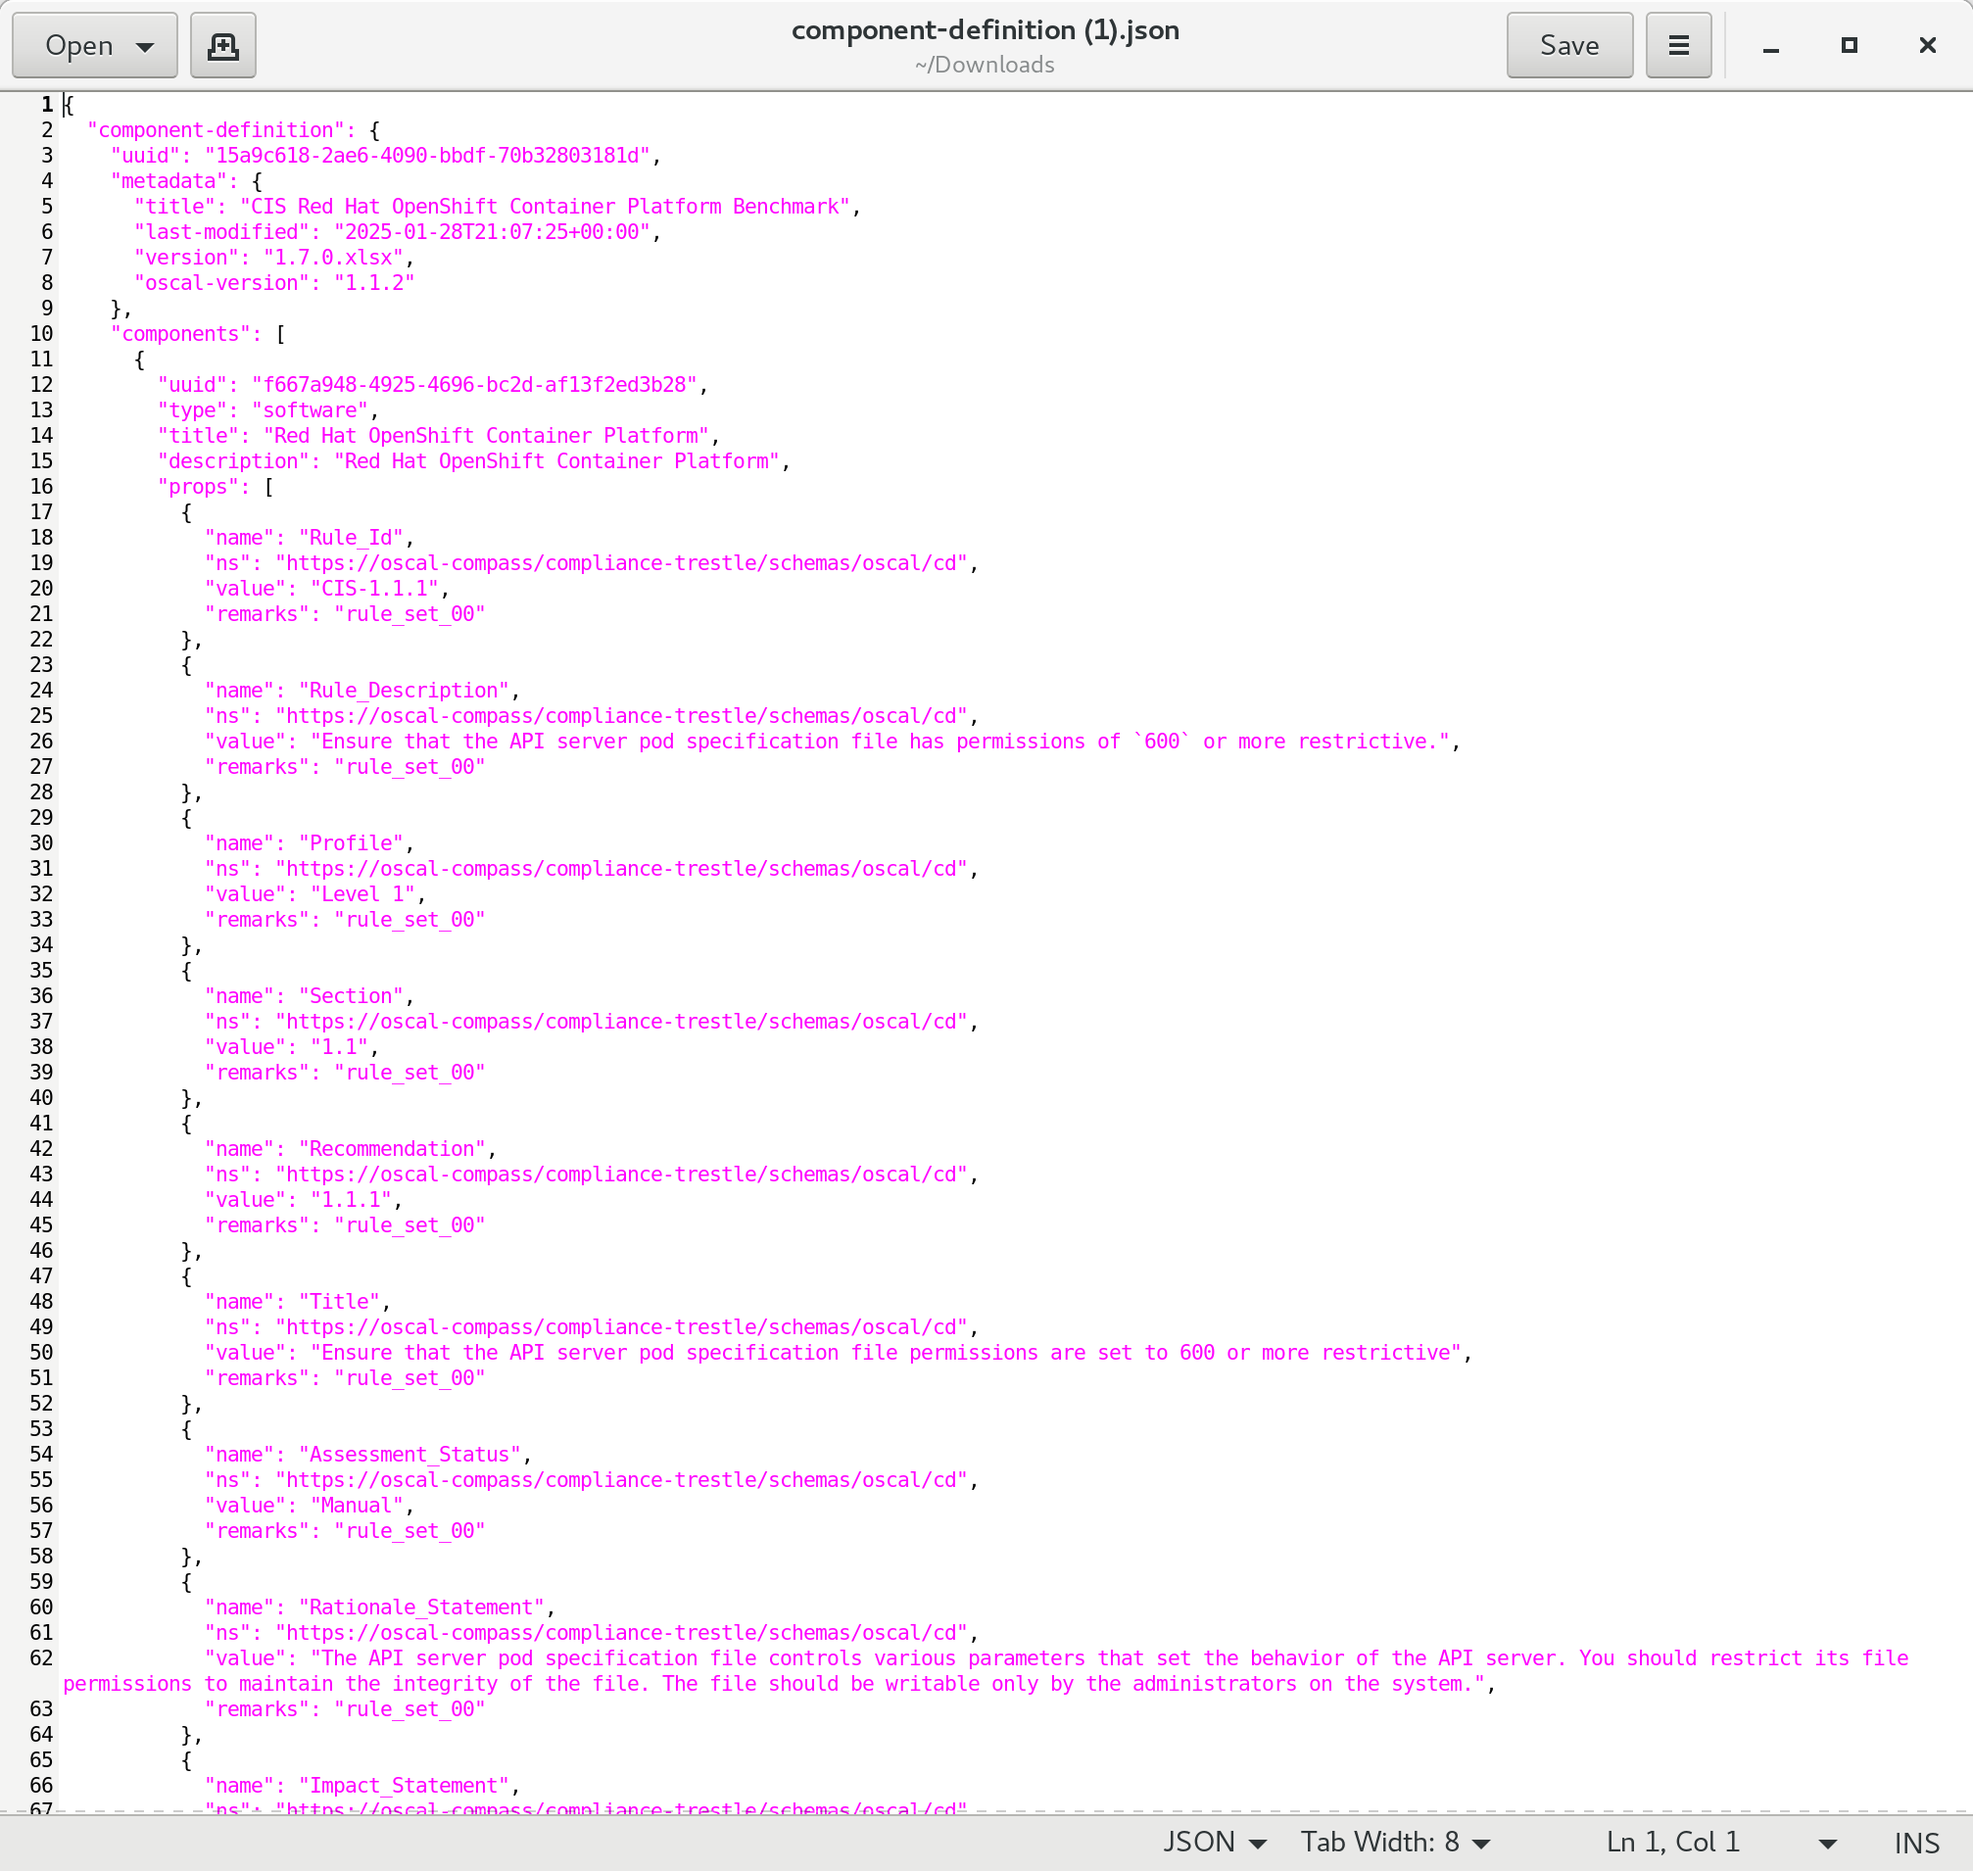
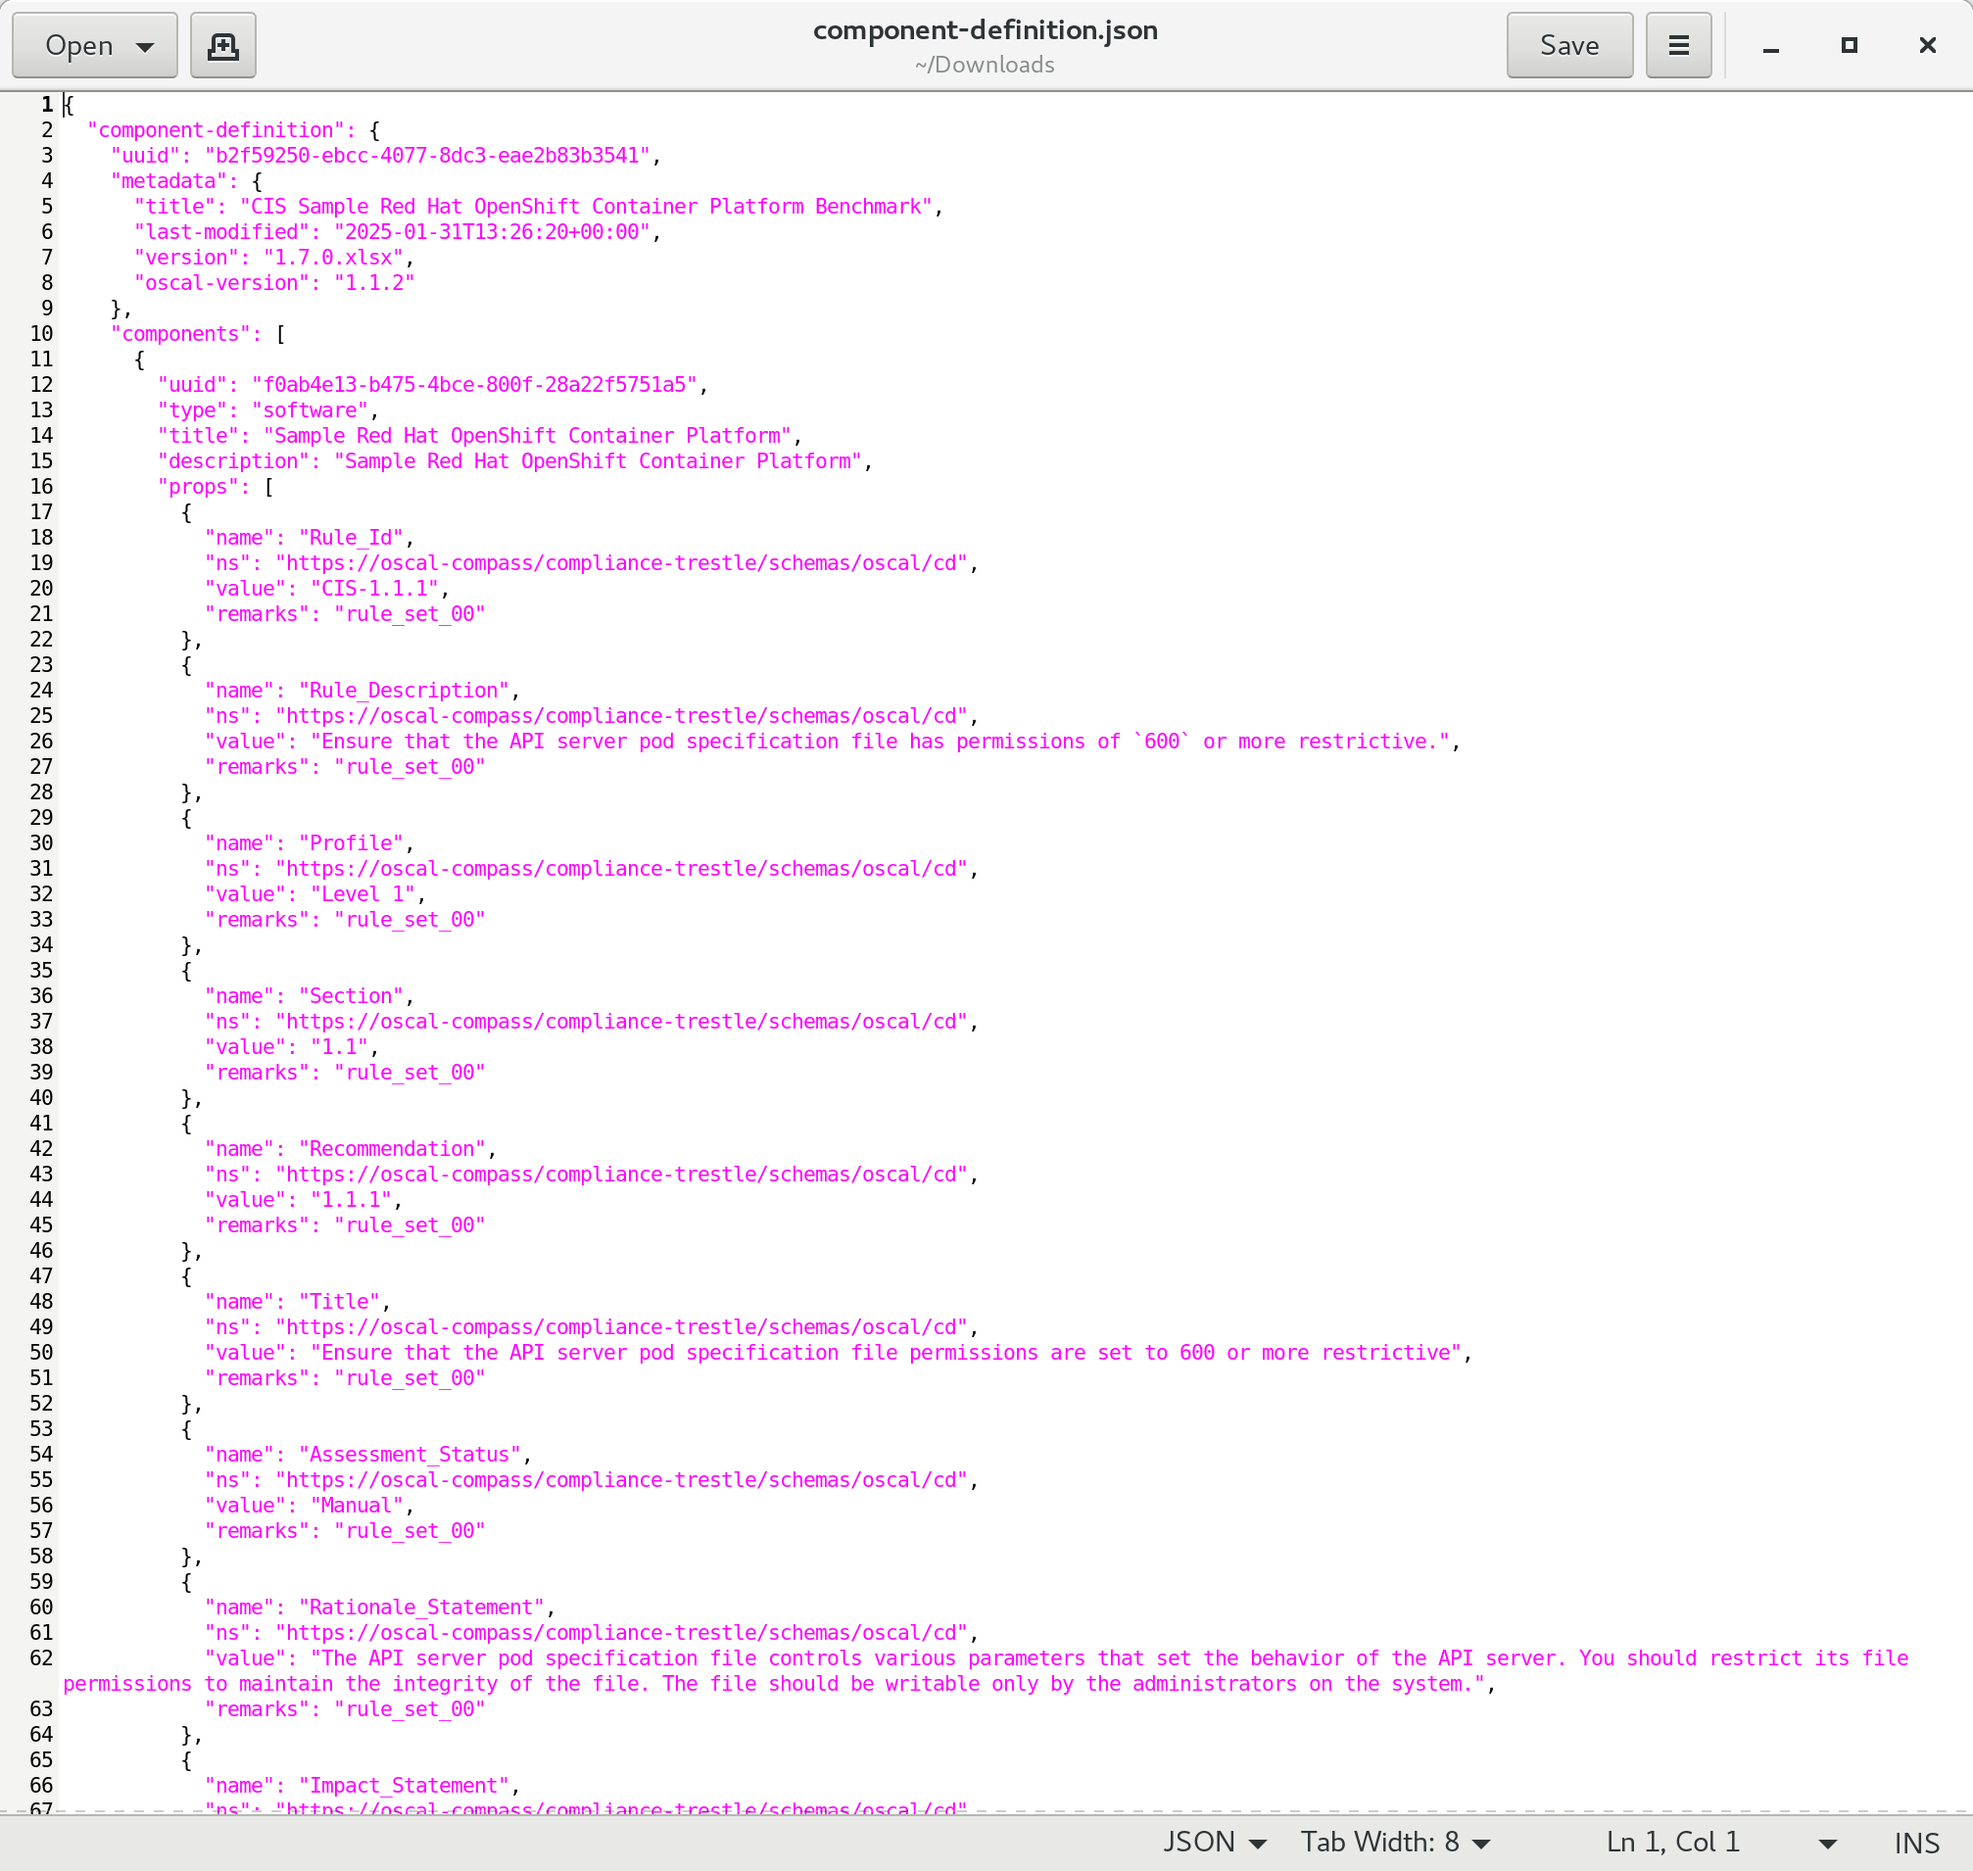
fix: add Sample to name to be clear it is not actual CIS Benchmark

Changed region(s): [[0.1231, 0.0618, 0.4618, 0.1236], [0.1539, 0.1853, 0.4002, 0.2471], [0.4002, 0.0, 0.5849, 0.0309]]

diff --git a/trestle_task_cis_xlsx_to_oscal_cd/README.md b/trestle_task_cis_xlsx_to_oscal_cd/README.md
@@ -45,7 +45,7 @@ In web browser, enter: http://localhost:5000/apidocs/
 - click on POST
 - click on "Try it out"
 - click on "Choose File"
-- navigate to: git/compliance-trestle-demos/CIS_Red_Hat_OpenShift_Container_Platform_Benchmark_v1.7.0.xlsx
+- navigate to: git/compliance-trestle-demos/CIS_Sample_Red_Hat_OpenShift_Container_Platform_Benchmark_v1.7.0.xlsx
 - click on Execute (blue bar)
 - click on "Download file"
 ```
@@ -70,6 +70,7 @@ This command line demo takes a sample CIS Benchmark (xlsx) and uses the trestle 
 - Install compliance-trestle, ideally in a python virtual environment.
 
 ```
+> cd trestle_task_cis_xlsx_to_oscal_cd
 > python -m venv venv.compliance-trestle-demos
 > source venv.compliance-trestle-demos/bin/activate
 > pip install compliance-trestle
@@ -82,7 +83,7 @@ This command line demo takes a sample CIS Benchmark (xlsx) and uses the trestle 
 > cd trestle-workspace
 > trestle init
 > trestle task cis-xlsx-to-oscal-cd -c  ../cis-xlsx-to-oscal-cd.snippet.config
-input: /tmp/tmp39ynmxp5/CIS_Red_Hat_OpenShift_Container_Platform_Benchmark_v1.7.0.csv
+input: /tmp/tmp39ynmxp5/CIS_Sample_Red_Hat_OpenShift_Container_Platform_Benchmark_v1.7.0.csv
 output: component-definitions/CIS_Red_Hat_OpenShift_Container_Platform_Benchmark_v1.7.0/component-definition.json
 Task: cis-xlsx-to-oscal-cd executed successfully.
 ```
